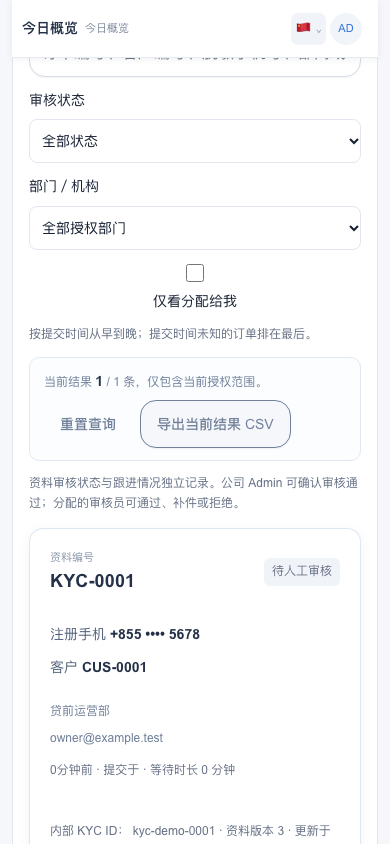
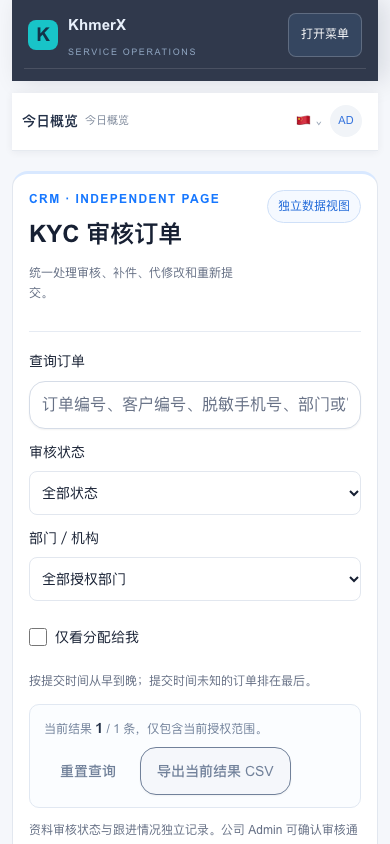
docs: refresh KYC mobile review evidence

diff --git a/docs/review/ui-fix-2-kyc-20261102.md b/docs/review/ui-fix-2-kyc-20261102.md
@@ -9,15 +9,15 @@ The screenshots were produced with Playwright against the local Vinext dev serve
 | Page | Viewport | Before | After | After SHA-256 |
 |---|---:|---|---|---|
[7 lines of base64/hex data omitted]
 
 ## Review notes
 
 - The queue keeps its desktop sidebar and card hierarchy while moving the “仅看分配给我” control into a readable vertical mobile arrangement at 390px.
-- The new 390px after capture was taken with the menu closed, the queue directly visible, the checkbox/text row visible, and `KYC-0001` visible after the local page was scrolled to the first card; the companion open-state capture shows the collapsed navigation expanded by the new button.
+- The new 390px after capture was taken with the menu closed at `scrollY=0`: it shows the “打开菜单” button, the “KYC 审核订单” page title, and the “仅看分配给我” checkbox and text on one horizontal row. The companion open-state capture shows the expanded navigation with visible spacing between “KhmerX” and “SERVICE OPERATIONS”.
 - The queue case card retains the SLA time, internal audit metadata, and actions without inline style dependencies; long identifiers wrap safely.
 - The review page keeps the section cards on the left and gives the decision panel a distinct high-contrast treatment with 48px controls.
 - The H5 home capture at 390px shows the anchored three-item bottom navigation; the synthetic baseline and after render to the same pixels at this viewport, so their hashes are intentionally identical while the after capture verifies the nav remains visible and reserves content space.
